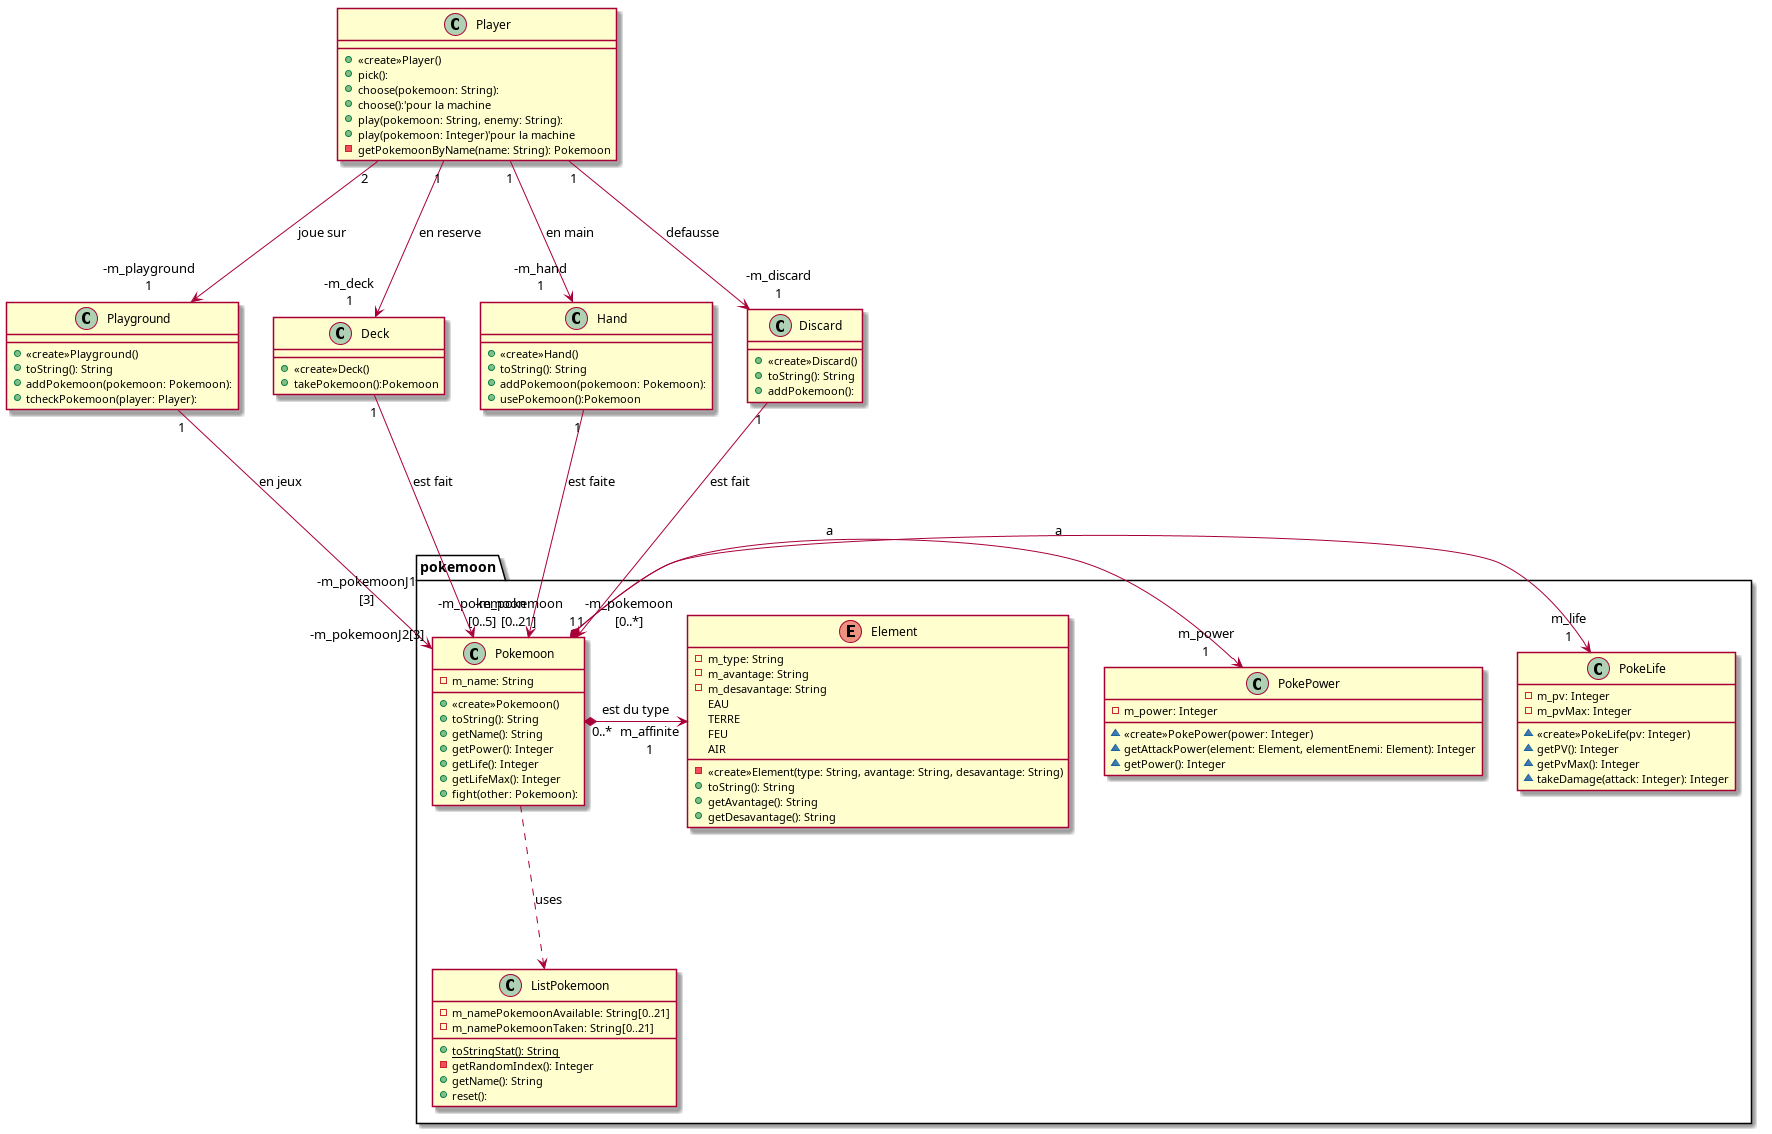
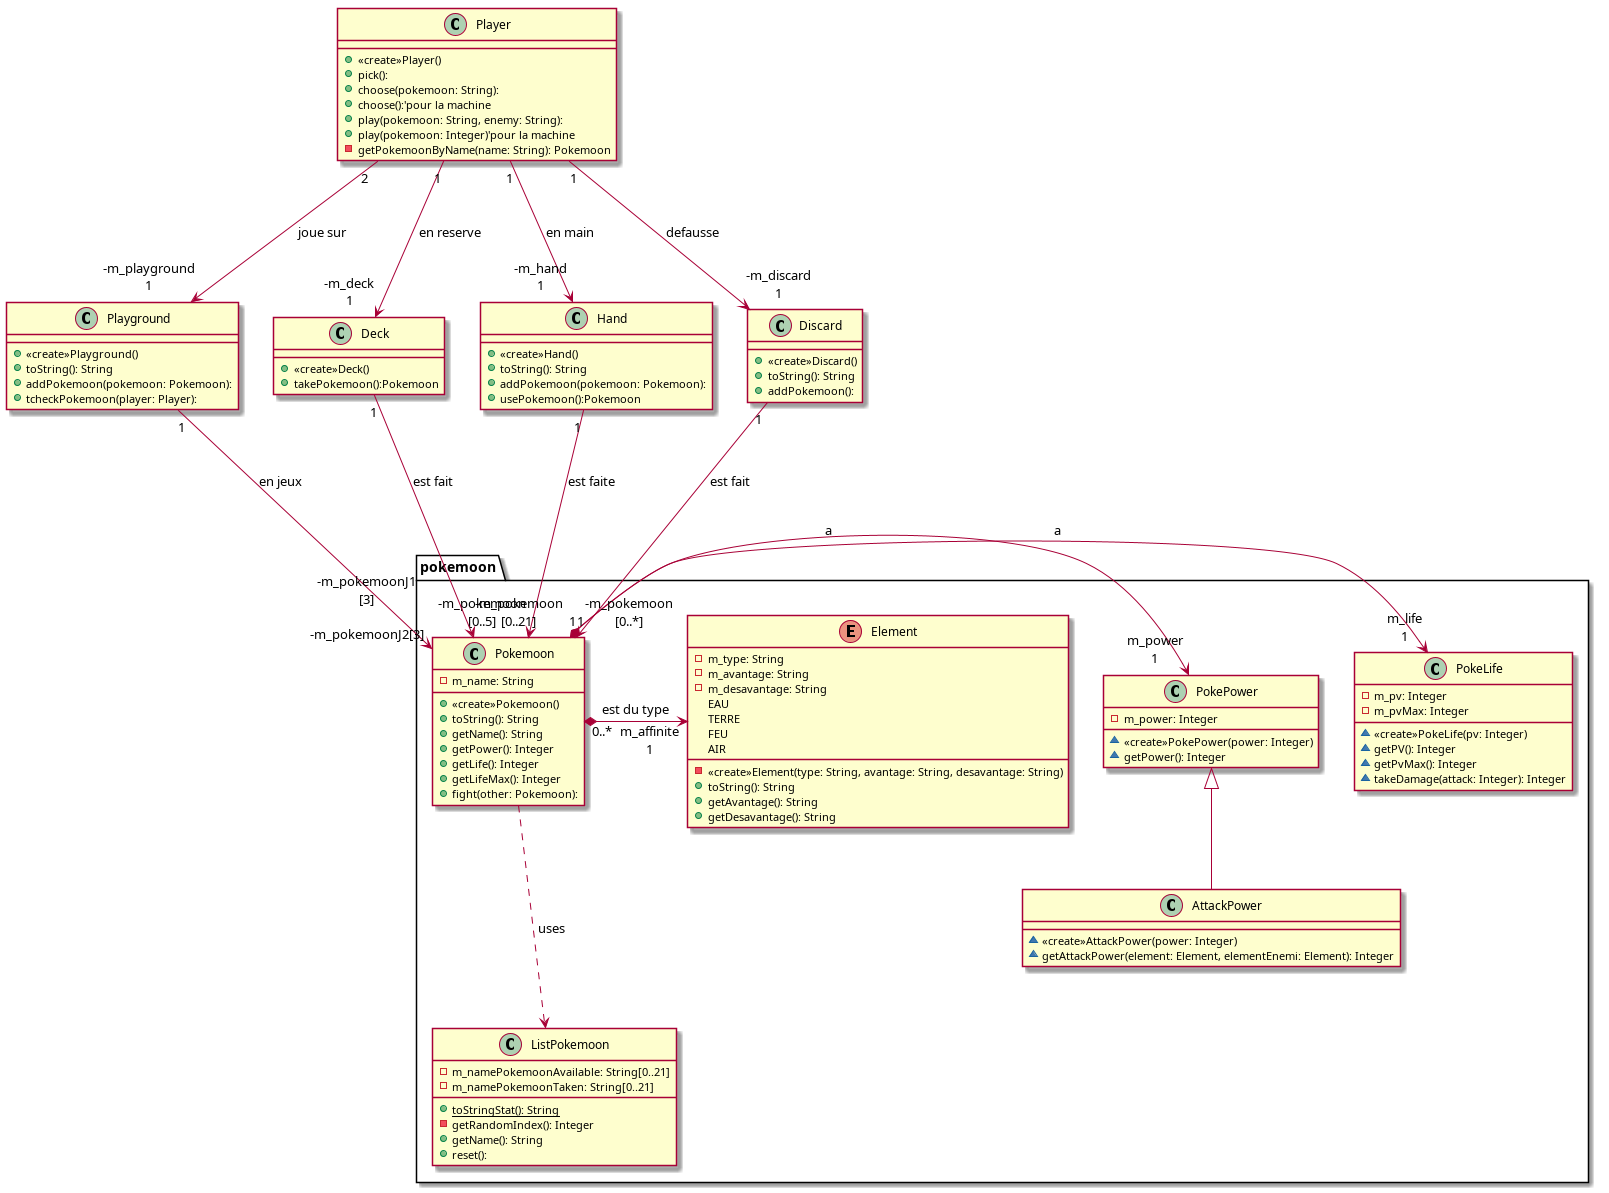
modif getion puissance

diff --git a/src/pokemoon/Pokemoon.java b/src/pokemoon/Pokemoon.java
@@ -5,21 +5,21 @@ import java.util.Random;
 public class Pokemoon {
     private String m_name;
     private PokeLife m_life;
-    private PokePower m_power;
-    Element m_affinite;
+    private AttackPower m_powerAtt;
+    private Element m_affinite;
 
     public Pokemoon(){
         Random rd = new Random();
         Element[] tabElement = {Element.AIR,Element.EAU,Element.FEU,Element.TERRE};
         m_name = ListPokemoon.getName();
         m_life = new PokeLife(10*rd.nextInt(10,20));
-        m_power = new PokePower(10 * rd.nextInt(1,4));
+        m_powerAtt = new AttackPower(10 * rd.nextInt(1,4));
         m_affinite = tabElement[rd.nextInt(0,3)];
     }
 
     @Override
     public String toString(){
-        return "nom : "+m_name+"\nvie : "+m_life+"\npuissance : "+m_power+"\ntype : "+m_affinite.toString();
+        return "nom : "+m_name+"\nvie : "+m_life.getPV()+"\npuissance : "+m_powerAtt.getPower()+"\ntype : "+m_affinite.toString();
     }
 
     public String getName(){
@@ -27,7 +27,7 @@ public class Pokemoon {
     }
 
     public int getPower(){
-        return m_power.getPower();
+        return m_powerAtt.getPower();
     }
 
     public int getLife(){
@@ -42,7 +42,7 @@ public class Pokemoon {
      * @param other le pokemoon qui est attaquer
      */
     public void fight(Pokemoon other){
-        int powerAttack = m_power.getAttackPower(m_affinite, other.m_affinite);
+        int powerAttack = m_powerAtt.getAttackPower(m_affinite, other.m_affinite);
         other.m_life.takeDamage(powerAttack);
     }
 }

diff --git a/src/pokemoon/PokePower.java b/src/pokemoon/PokePower.java
@@ -1,25 +1,10 @@
 package pokemoon;
 
-public class PokePower {
+class PokePower {
     private int m_power;
 
     PokePower(int power){
         m_power = power;
-    }
-
-    /**
-     * 
-     * @param element le type de l'élèment du pokemoon qui attaque
-     * @param elementEnemi le type de l'élèment du pokemoon qui prend cher
-     * @return la puissance de l'attaque reçut
-     */
-    int getAttackPower(Element element,Element elementEnemi){
-        if(element.getAvantage().equals(elementEnemi.toString()))
-            return m_power+10;
-        else if(element.getDesavantage().equals(elementEnemi.toString()))
-            return m_power-10;
-        else
-            return m_power;
     }
 
     int getPower(){

diff --git a/src/pokemoon/AttackPower.java b/src/pokemoon/AttackPower.java
@@ -1,0 +1,22 @@
+package pokemoon;
+
+class AttackPower extends PokePower {
+    public AttackPower(int power){
+        super(power);
+    }
+
+    /**
+     * 
+     * @param element le type de l'élèment du pokemoon qui attaque
+     * @param elementEnemi le type de l'élèment du pokemoon qui prend cher
+     * @return la puissance de l'attaque reçut
+     */
+    int getAttackPower(Element element, Element elementEnemi) {
+        if(element.getAvantage().equals(elementEnemi.toString()))
+            return super.getPower()+10;
+        else if(element.getDesavantage().equals(elementEnemi.toString()))
+            return super.getPower()-10;
+        else
+            return super.getPower();
+    }
+}

diff --git a/src/pokemoon/ListPokemoon.java b/src/pokemoon/ListPokemoon.java
@@ -9,7 +9,7 @@ import java.util.ArrayList;
 import java.util.Arrays;
 import java.util.Random;
 
-public class ListPokemoon {
+class ListPokemoon {
     private static ArrayList<String> m_namePokemoonAvailable = new ArrayList<String>(Arrays.asList("sam","oce","sim","roro"));
     private static ArrayList<String> m_namePokemoonTaken = new ArrayList<String>();
 

diff --git a/src/pokemoon/PokeLife.java b/src/pokemoon/PokeLife.java
@@ -5,7 +5,7 @@ package pokemoon;
  * m_pvMax la vie maximum du pokemoon
  */
 
-public class PokeLife {
+ class PokeLife {
     private int m_pv;
     private int m_pvMax;
 
